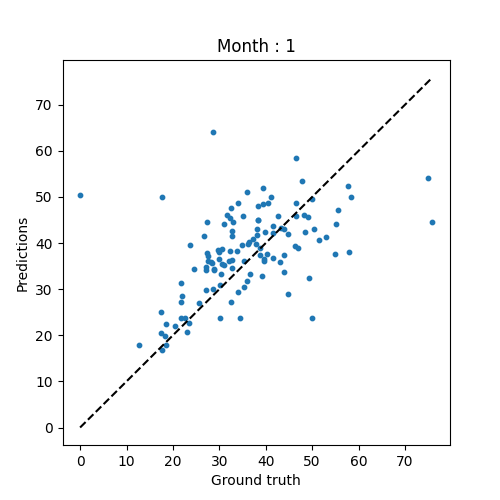
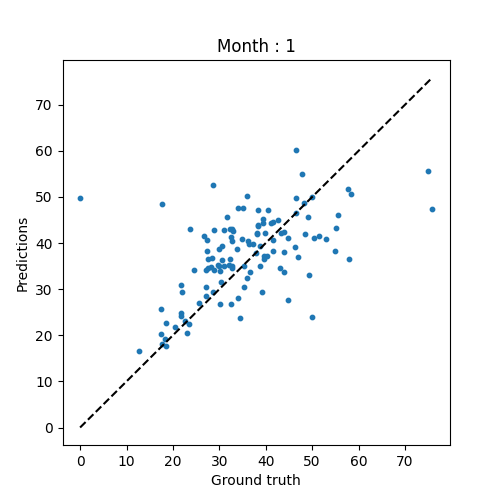
save previous test

diff --git a/test_laure.py b/test_laure.py
@@ -100,9 +100,6 @@ model6 = ExtraTreesRegressor(
     n_estimators = 160, 
     min_samples_leaf = 1, 
     max_depth = 10, 
-    # bootstrap = False,
-    warm_start = True,
-    # max_samples = None, # If bootstrap is True, the number of samples to draw from X to train each base estimator.
     random_state = RANDOM_STATE)
 
 model5 = XGBRegressor(

diff --git a/main.py b/main.py
@@ -69,7 +69,7 @@ dataset = remove_outliers(dataset, score_threshold)
 
 # Adding last month delays
 
-dataset = last_month_column(dataset)
+#dataset = last_month_column(dataset)
 
 # Spliting data
 train_set = dataset[dataset['date'].dt.year != 2023]

diff --git a/results.md b/results.md
@@ -20,3 +20,10 @@ Pour 100, 7 et 8, on obtient les résultats :
 - mse : 144.0
 - rmse : 12.0
 - r2 : 0.202
+
+## extra_tree_regressor
+
+Pour min_samples_split  = 130, n_estim = 160, min_samples_leaf = 1, max_depth = 10
+- mse = 143.0
+- rmse = 11.9
+- r2 = 0.207
